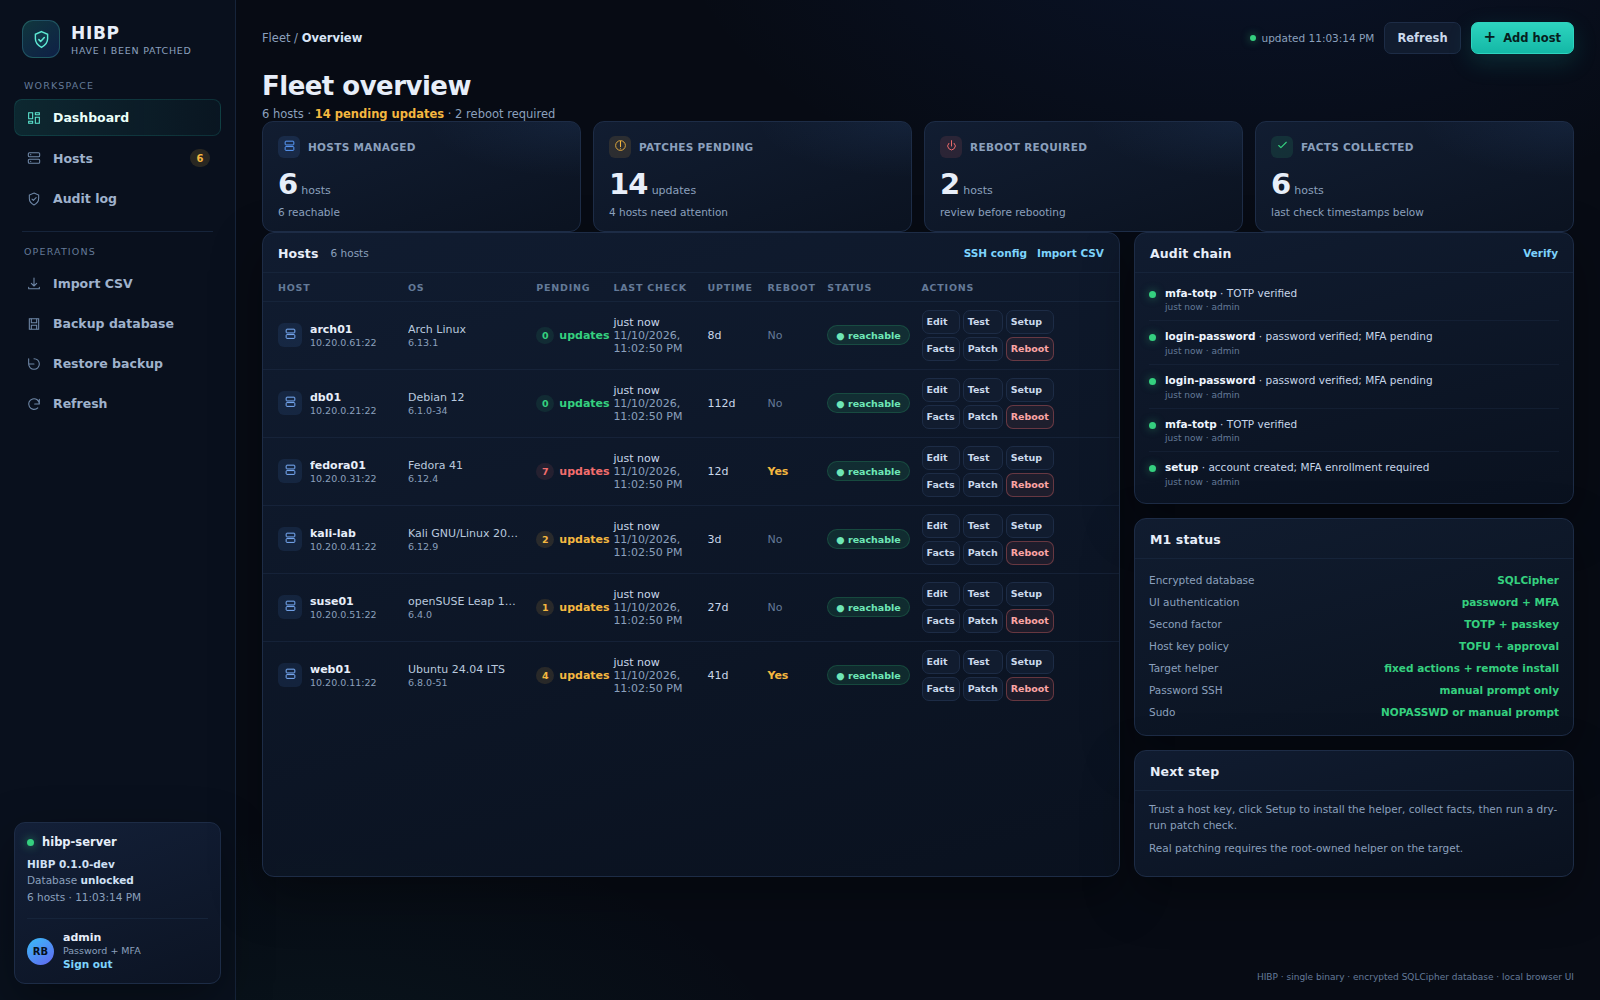
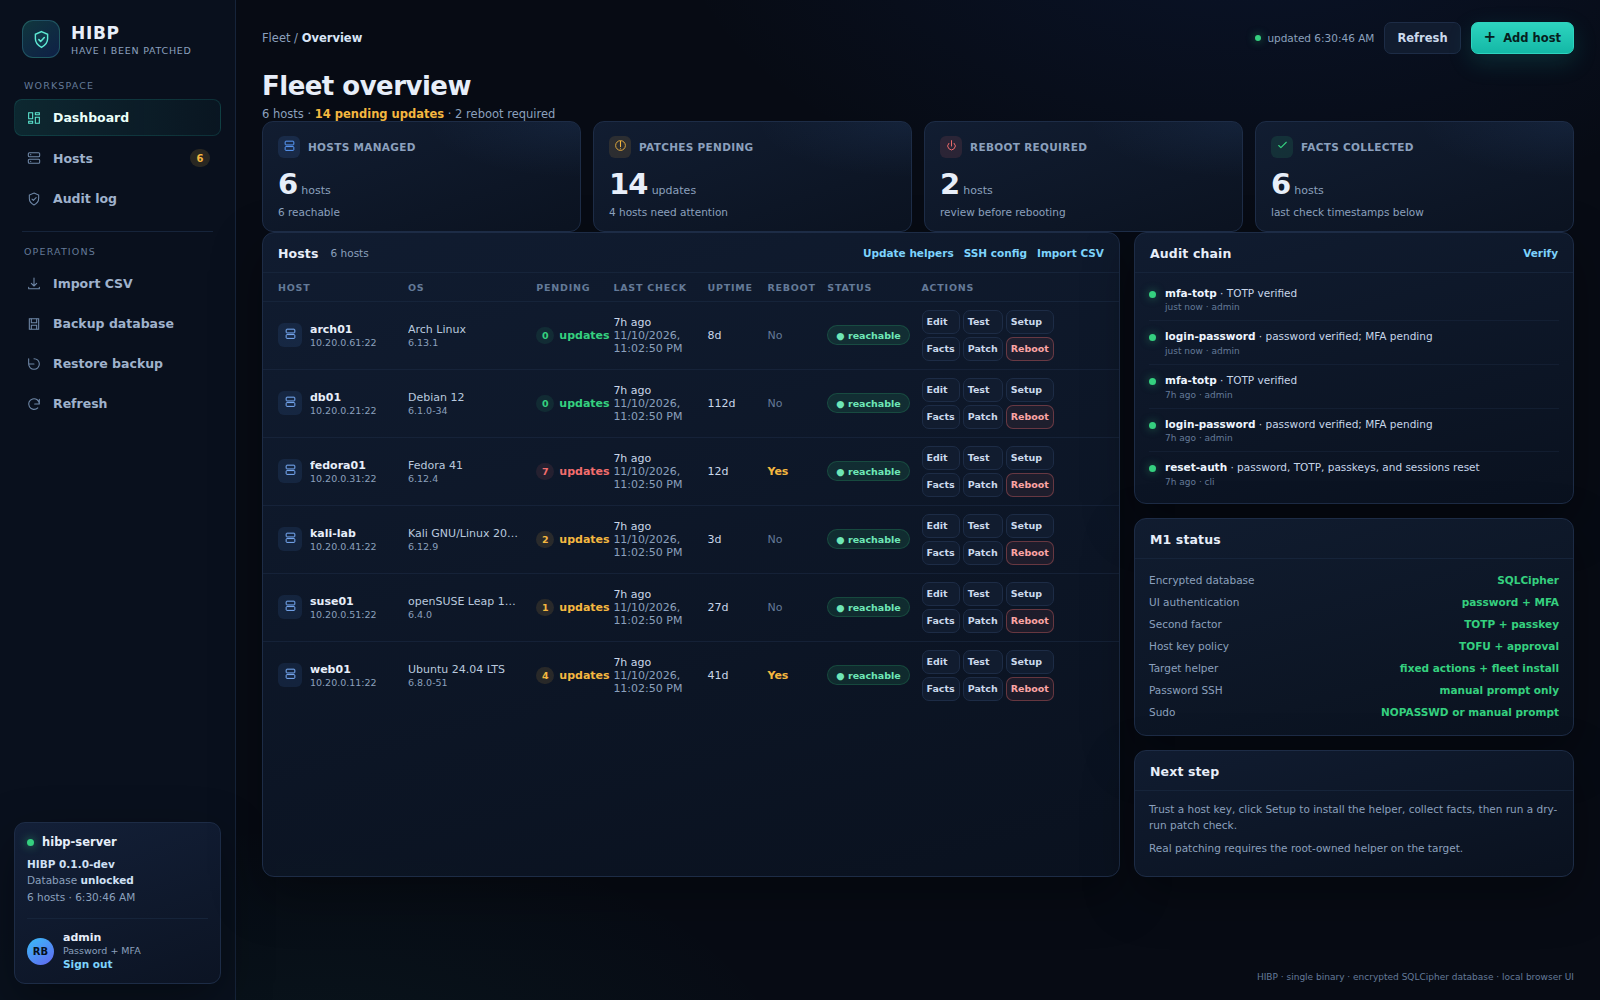
feat: add fleet helper updates and modal stack

diff --git a/internal/webui/app.js b/internal/webui/app.js
@@ -11,7 +11,16 @@ const state = {
   totpSetup: null,
 };
 
-let activeModalClose = null;
+let fleetUpdateRunning = false;
+
+const modalStack = [];
+
+document.addEventListener('keydown', (event) => {
+  if (event.key === 'Escape' && modalStack.length) {
+    event.preventDefault();
+    modalStack[modalStack.length - 1].close();
+  }
+});
 
 const $ = (id) => document.getElementById(id);
 
@@ -40,12 +49,14 @@ function showApp() {
   $('app').classList.remove('hidden');
 }
 
-function closeActiveModal() {
-  if (activeModalClose) activeModalClose();
+function closeAllModals() {
+  while (modalStack.length) {
+    modalStack[modalStack.length - 1].close();
+  }
 }
 
 function showAuthScreenShell() {
-  closeActiveModal();
+  closeAllModals();
   $('app').classList.add('hidden');
   $('auth-screen').classList.remove('hidden');
 }
@@ -667,6 +678,118 @@ async function bootstrapHost(host) {
   }
 }
 
+async function fleetUpdateHelpers() {
+  if (fleetUpdateRunning) {
+    toast('A fleet helper update is already running', 'error');
+    return;
+  }
+  const hosts = state.hosts.slice();
+  if (hosts.length === 0) {
+    toast('No hosts to update', 'error');
+    return;
+  }
+  if (!confirm('Update the HIBP helper on all ' + hosts.length + ' hosts?\n\nThis uploads the running controller binary, rewrites the sudoers rule, and may prompt for credentials. Hosts with untrusted keys are skipped.')) {
+    return;
+  }
+
+  fleetUpdateRunning = true;
+  let cancelled = false;
+  const body = el('div', 'modal-body');
+  body.append(el('p', 'muted', 'Updating sequentially. Keep this tab open. Setup installs the version of the HIBP server that is currently running.'));
+  const summary = el('div', 'muted', 'Preparing…');
+  const wrap = el('div', 'fleet-update-list');
+  const table = el('table');
+  const head = el('tr');
+  for (const label of ['Host', 'Status', 'Detail']) head.append(el('th', '', label));
+  table.append(head);
+  wrap.append(table);
+  body.append(summary, wrap);
+  const actions = el('div', 'modal-actions');
+  const stop = el('button', 'btn danger', 'Stop after current host');
+  stop.type = 'button';
+  actions.append(stop);
+  body.append(actions);
+  const close = openModal('Fleet helper update', body, () => { cancelled = true; });
+  const rows = new Map();
+  const rowFor = (host) => {
+    let row = rows.get(host.id);
+    if (row) return row;
+    const status = el('span', 'pill unknown', 'pending');
+    const statusCell = el('td');
+    statusCell.append(status);
+    const detail = el('td', 'muted', '—');
+    row = el('tr');
+    row.append(el('td', '', host.name), statusCell, detail);
+    table.append(row);
+    row.status = status;
+    row.detail = detail;
+    rows.set(host.id, row);
+    return row;
+  };
+  const setStatus = (host, label, cls, detail) => {
+    const row = rowFor(host);
+    row.status.textContent = label;
+    row.status.className = 'pill ' + cls;
+    row.detail.textContent = detail || '—';
+  };
+  let stopping = false;
+  stop.addEventListener('click', () => {
+    if (fleetUpdateRunning) {
+      stopping = true;
+      cancelled = true;
+      stop.disabled = true;
+      stop.textContent = 'Stopping…';
+      summary.textContent = 'Stopping after the current host…';
+      return;
+    }
+    close();
+  });
+
+  let ok = 0;
+  let failed = 0;
+  let skipped = 0;
+  try {
+    for (let index = 0; index < hosts.length; index++) {
+      if (cancelled) break;
+      const host = hosts[index];
+      setStatus(host, 'running', 'unknown', 'connecting…');
+      summary.textContent = 'Updating ' + (index + 1) + ' of ' + hosts.length + '…';
+      try {
+        const password = await passwordFor(host);
+        if (cancelled) break;
+        await requestWithSudo(
+          host,
+          '/api/v1/hosts/' + encodeURIComponent(host.id) + '/bootstrap',
+          (sudoPassword) => ({ password, sudo_password: sudoPassword }),
+          { method: 'POST' },
+        );
+        setStatus(host, 'ok', 'reachable', 'helper updated');
+        ok++;
+      } catch (error) {
+        if (error.message === 'cancelled') {
+          setStatus(host, 'skipped', 'review', 'credential prompt cancelled');
+          skipped++;
+        } else if (error.status === 409 && error.data && error.data.code === 'host_key_untrusted') {
+          setStatus(host, 'failed', 'unreachable', 'trust the host key first');
+          failed++;
+        } else {
+          setStatus(host, 'failed', 'unreachable', error.message);
+          failed++;
+        }
+      }
+    }
+  } finally {
+    fleetUpdateRunning = false;
+    stop.disabled = false;
+    stop.textContent = 'Close';
+    stop.classList.remove('danger');
+    summary.textContent = (cancelled || stopping)
+      ? 'Stopped. Updated ' + ok + ', failed ' + failed + ', skipped ' + skipped + '.'
+      : 'Finished. Updated ' + ok + ', failed ' + failed + ', skipped ' + skipped + '.';
+    await loadAll();
+  }
+}
+
 async function collectFacts(host) {
   toast('Collecting facts from ' + host.name + '…');
   try {
@@ -780,7 +903,6 @@ function showOutputModal(title, result) {
 
 function openModal(title, content, onClose) {
   const root = $('modal-root');
-  root.replaceChildren();
   const backdrop = el('div', 'modal-backdrop');
   const modal = el('div', 'modal');
   const head = el('div', 'modal-head');
@@ -791,20 +913,17 @@ function openModal(title, content, onClose) {
   backdrop.append(modal);
   root.append(backdrop);
   let closed = false;
-  let closeFn;
-  const onKey = (event) => { if (event.key === 'Escape') closeFn(); };
-  closeFn = () => {
+  const closeFn = () => {
     if (closed) return;
     closed = true;
-    document.removeEventListener('keydown', onKey);
-    root.replaceChildren();
-    if (activeModalClose === closeFn) activeModalClose = null;
+    backdrop.remove();
+    const index = modalStack.findIndex((entry) => entry.close === closeFn);
+    if (index >= 0) modalStack.splice(index, 1);
     if (onClose) onClose();
   };
-  activeModalClose = closeFn;
+  modalStack.push({ close: closeFn });
   close.addEventListener('click', closeFn);
   backdrop.addEventListener('click', (event) => { if (event.target === backdrop) closeFn(); });
-  document.addEventListener('keydown', onKey);
   return closeFn;
 }
 
@@ -1286,6 +1405,8 @@ function bind() {
   $('hosts-import').addEventListener('click', showImportModal);
   $('table-ssh-config').addEventListener('click', showSSHConfigModal);
   $('hosts-ssh-config').addEventListener('click', showSSHConfigModal);
+  $('table-update-helpers').addEventListener('click', fleetUpdateHelpers);
+  $('fleet-update-helpers').addEventListener('click', fleetUpdateHelpers);
   $('backup-button').addEventListener('click', showBackupModal);
   $('restore-button').addEventListener('click', showRestoreModal);
   $('verify-audit').addEventListener('click', verifyAudit);

diff --git a/internal/webui/index.html b/internal/webui/index.html
@@ -174,7 +174,7 @@
             <div class="card-head">
               <div class="card-title">Hosts</div>
               <div class="card-sub" id="hosts-sub">0 hosts</div>
-              <div class="card-actions"><button class="link-button" id="table-ssh-config">SSH config</button><button class="link-button" id="table-import">Import CSV</button></div>
+              <div class="card-actions"><button class="link-button" id="table-update-helpers">Update helpers</button><button class="link-button" id="table-ssh-config">SSH config</button><button class="link-button" id="table-import">Import CSV</button></div>
             </div>
             <div class="table-wrap">
               <table>
@@ -215,7 +215,7 @@
                 <div><span>UI authentication</span><b class="ok">password + MFA</b></div>
                 <div><span>Second factor</span><b class="ok">TOTP + passkey</b></div>
                 <div><span>Host key policy</span><b class="ok">TOFU + approval</b></div>
-                <div><span>Target helper</span><b class="ok">fixed actions + remote install</b></div>
+                <div><span>Target helper</span><b class="ok">fixed actions + fleet install</b></div>
                 <div><span>Password SSH</span><b class="ok">manual prompt only</b></div>
                 <div><span>Sudo</span><b class="ok">NOPASSWD or manual prompt</b></div>
               </div>
@@ -237,6 +237,7 @@
             <div class="page-title">Hosts</div>
             <div class="page-sub" id="hosts-page-sub">All managed hosts</div>
           </div>
+          <div class="head-actions"><button class="btn" id="fleet-update-helpers" type="button">Update helpers</button></div>
         </div>
         <section class="card table-card">
           <div class="card-head">

diff --git a/internal/webui/style.css b/internal/webui/style.css
@@ -290,6 +290,10 @@ label.field .password-field input:focus { border-color: transparent; box-shadow:
 .file-row:last-child { border-bottom: none; }
 .ssh-config-entry { flex: 1; min-width: 0; }
 .ssh-config-entry .file-meta { overflow: hidden; text-overflow: ellipsis; }
+.fleet-update-list { max-height: 320px; overflow: auto; border: 1px solid var(--border-soft); border-radius: 8px; background: #08101d; }
+.fleet-update-list table { font-size: 10.5px; }
+.fleet-update-list td { padding: 6px 8px; }
+.fleet-update-list td:last-child { word-break: break-word; }
 .file-name { flex: 1; min-width: 0; overflow: hidden; text-overflow: ellipsis; white-space: nowrap; border: none; background: none; color: #dbe8f9; text-align: left; padding: 0; font-size: 11px; }
 .file-name:hover { color: #5eead4; }
 .file-meta { color: var(--muted); font-size: 9.5px; white-space: nowrap; }

diff --git a/README.md b/README.md
@@ -616,6 +616,41 @@ Security notes:
 - The helper is installed root-owned and mode `0755`; the sudoers file is
   root-owned and mode `0440`.
 
+### Update helpers across the fleet
+
+The **Hosts** page has an **Update helpers** action (also linked from the
+dashboard host card). It runs the setup flow sequentially for every host in the
+inventory and shows a per-host progress and result table.
+
+- It installs the helper version of the **currently running HIBP server**.
+  Restart the server after upgrading the controller, otherwise the old running
+  process uploads its old binary.
+- Hosts with untrusted host keys are skipped with a clear result. Run **Test**
+  and trust the key first.
+- Password-auth hosts and sudo prompts may ask per host. A working restricted
+  `NOPASSWD` rule makes fleet updates unattended.
+- The operation is foreground: keep the tab open. **Stop after current host**
+  cancels the remaining queue; the host currently being updated finishes.
+- Each successful host is recorded as `bootstrap-helper` in the audit log.
+- The fleet action never trusts host keys automatically and never stores
+  passwords.
+- Use the per-host **Setup** action when only one target needs an update.
+
+### Configuration model
+
+Configuration is fleet-first with per-host overrides where it makes sense:
+
+- Fleet-level defaults: collection intervals, alert thresholds, recipients,
+  monitoring enablement.
+- Group/tag overrides and explicit host overrides.
+- Capability-aware assignments: Docker monitoring only applies to hosts with
+  Docker; systemd monitoring only to systemd hosts; HTTP/SSL/TCP monitors can
+  apply anywhere.
+- SMTP is a global integration; recipients can be set per monitor or fleet.
+- Helper lifecycle: per-host **Setup** and fleet-wide **Update helpers**.
+- Secrets (SMTP, vCenter, API tokens) live only in SQLCipher and are never
+  returned by the API.
+
 ### Install the helper manually
 
 Copy the same `hibp` binary to the fixed helper path:
@@ -1455,6 +1490,7 @@ Agent mode is optional and later; v1 uses SSH from the always-on server.
 - Fixed helper actions (`facts`, `check`, `apply`, `reboot`, `reboot-check`) with absolute
   binary paths, a sanitized environment, no shell, and output limits.
 - Explicit-confirmation reboot action through the fixed helper.
+- Per-host and fleet-wide helper installation/update with per-host results.
 - Local SSH config reader for prefilling hosts, with simple `Include` support,
   wildcard/`Match` filtering, and no private-key reads.
 - Remote helper installation from the UI with `visudo` validation, a restricted
